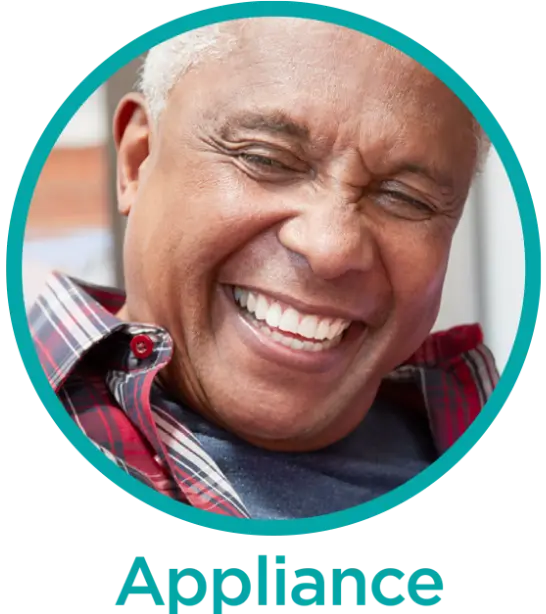
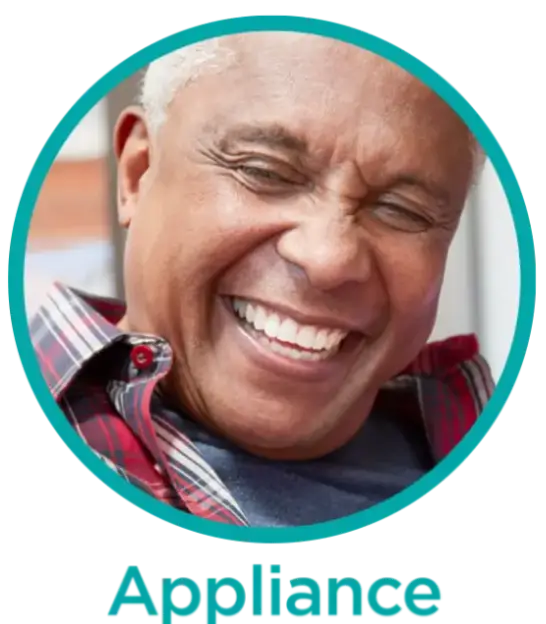
typo fix and image replacements

diff --git a/src/routes/Btc/Patient/RecommendationSlider/FlosserSlide/variants/EcoClean-831.tsx b/src/routes/Btc/Patient/RecommendationSlider/FlosserSlide/variants/EcoClean-831.tsx
@@ -1,19 +1,37 @@
-import FlosserSlide from '../FlosserSlide';
-import FlosserImage from '../../../../../../assets/btc/patient/recommendations/Flossers/831-FlosserImg.webp';
-import BottomImage from '../../../../../../assets/btc/patient/recommendations/Flossers/BottomImg.webp';
+import FlosserSlide from "../FlosserSlide";
+import FlosserImage from "../../../../../../assets/btc/patient/recommendations/Flossers/831-FlosserImg.webp";
+import BottomImage from "../../../../../../assets/btc/patient/recommendations/Flossers/BottomImg.webp";
 
 export default function EcoCleanFlosser() {
   return (
     <FlosserSlide
       title="Eco Clean®"
       subtitle="FLOSSER MINT"
-      subtitleSize='2.5rem'
+      subtitleSize="2.5rem"
       sideImage={FlosserImage}
       bottomImage={BottomImage}
       bullets={[
-        { text: <>Textured floss effectively removes 2x more plaque<sup>10</sup>.</> },
-        { text: <>Designed to resist shredding or breaking<sup>12</sup>.</> },
-        { text: <>20% LESS PLASTIC<sup>13</sup>13 mint flavour on all flossers</> }
+        {
+          text: (
+            <>
+              Textured floss effectively removes 2x more plaque<sup>10</sup>.
+            </>
+          ),
+        },
+        {
+          text: (
+            <>
+              Designed to resist shredding or breaking<sup>12</sup>.
+            </>
+          ),
+        },
+        {
+          text: (
+            <>
+              20% LESS PLASTIC<sup>13</sup> mint flavour on all flossers
+            </>
+          ),
+        },
       ]}
     />
   );
